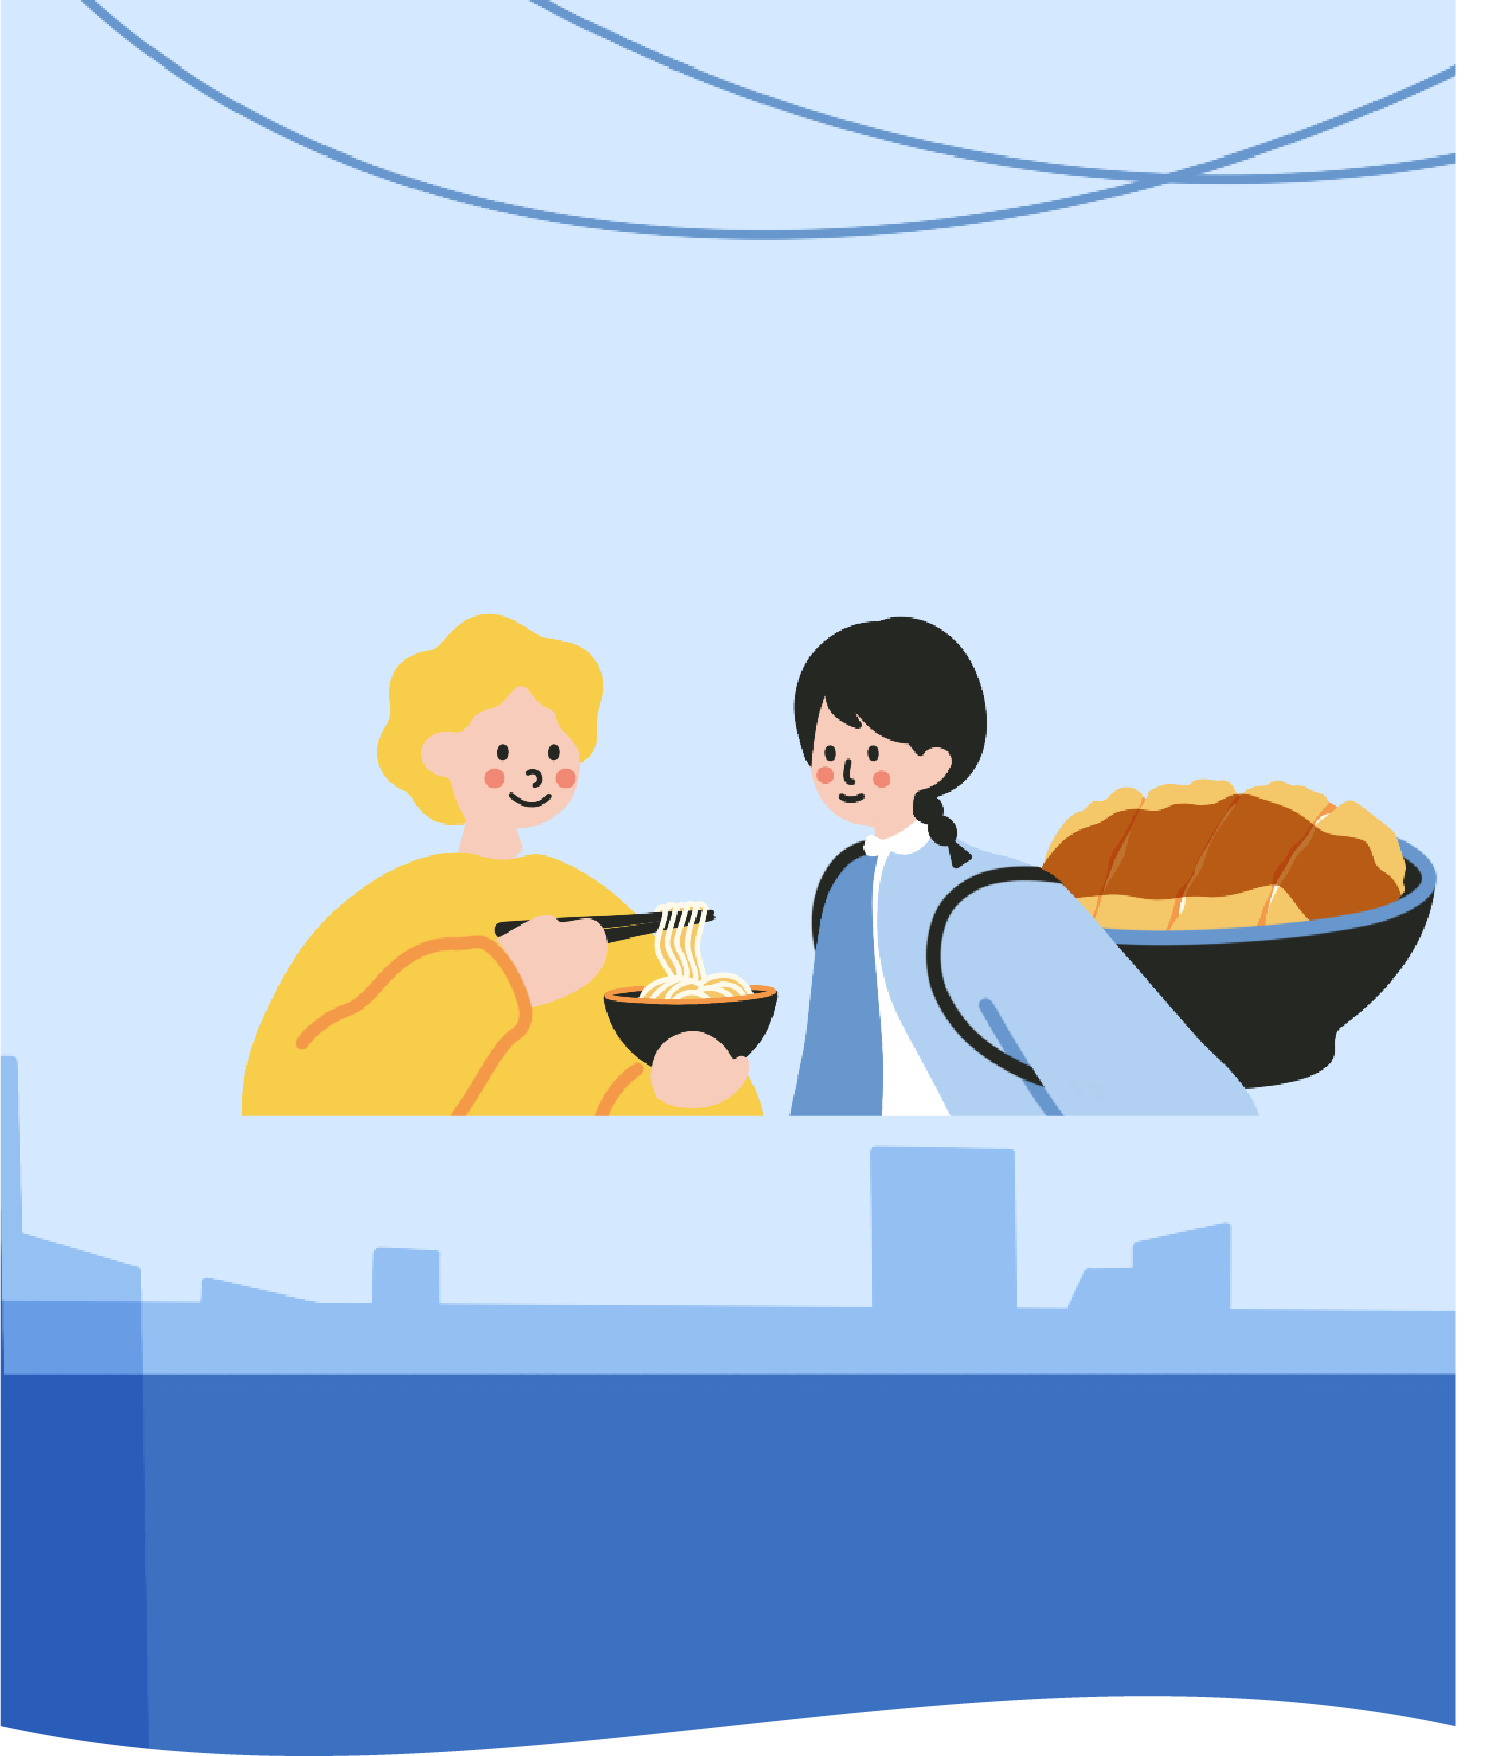
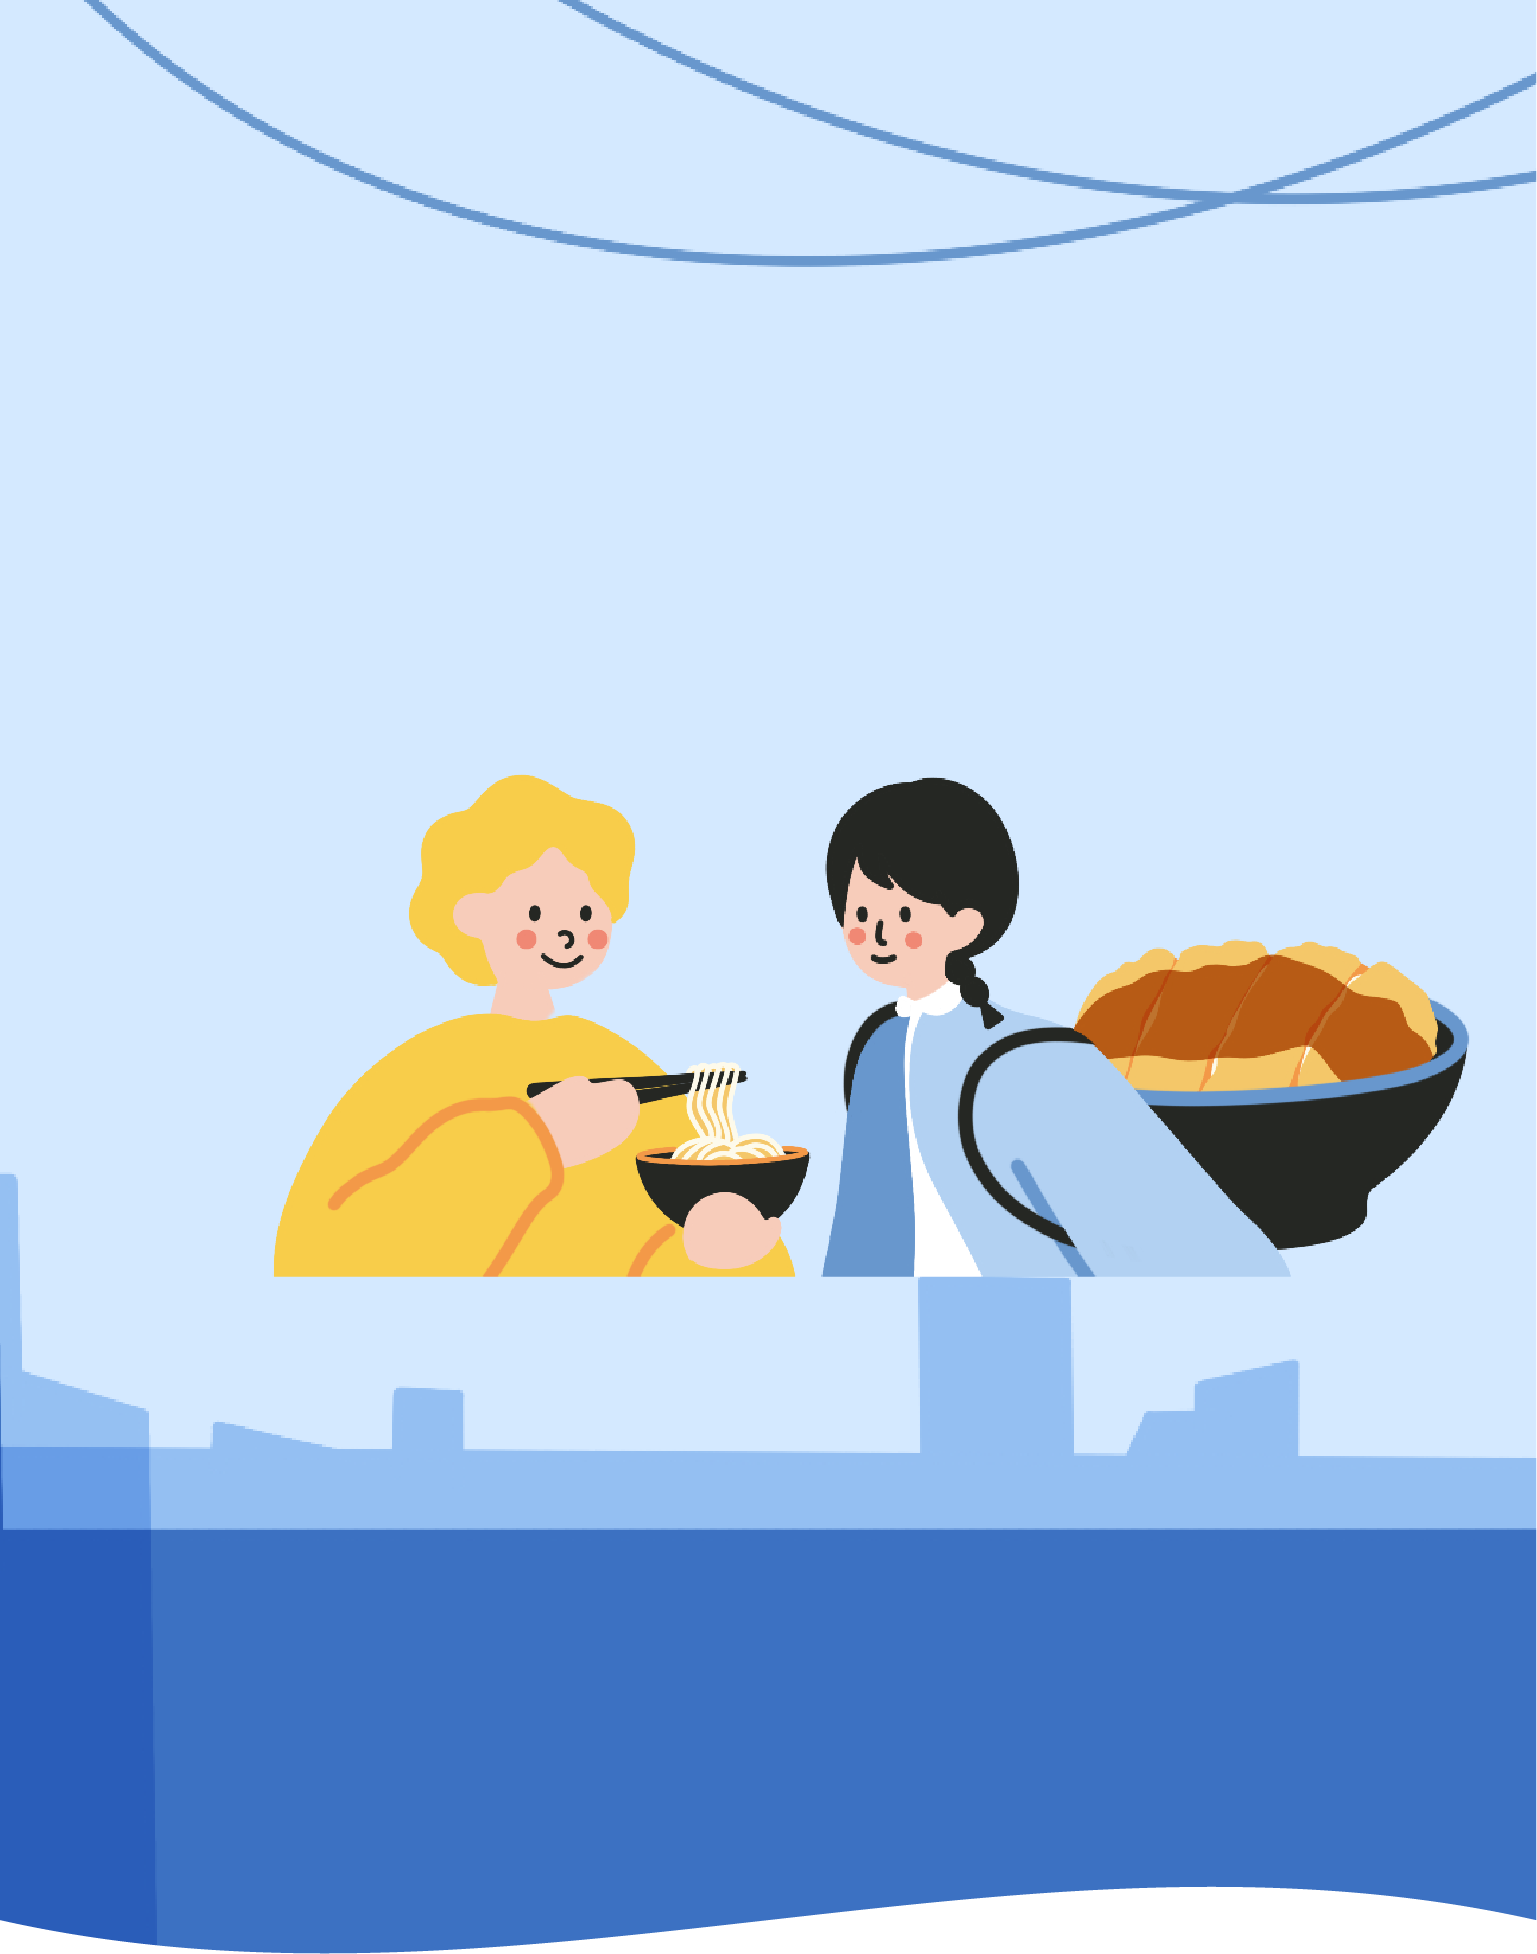
Modify the background position in matching page

diff --git a/style.css b/style.css
@@ -775,7 +775,7 @@ button, input, select, textarea {
   padding: 13.5rem 0 3.75rem;
 }
 .pageMenu--matching {
-  padding-block-start: 4.5rem;
+  padding-block-start: 6rem;
 }
 .pageMenu__item {
   position: relative;

diff --git a/scss/_pageMenu.scss b/scss/_pageMenu.scss
@@ -9,7 +9,7 @@
   padding: 13.5rem 0 3.75rem;
 
   &--matching {
-    padding-block-start: 4.5rem;
+    padding-block-start: 6rem;
   }
 
   &__item {
